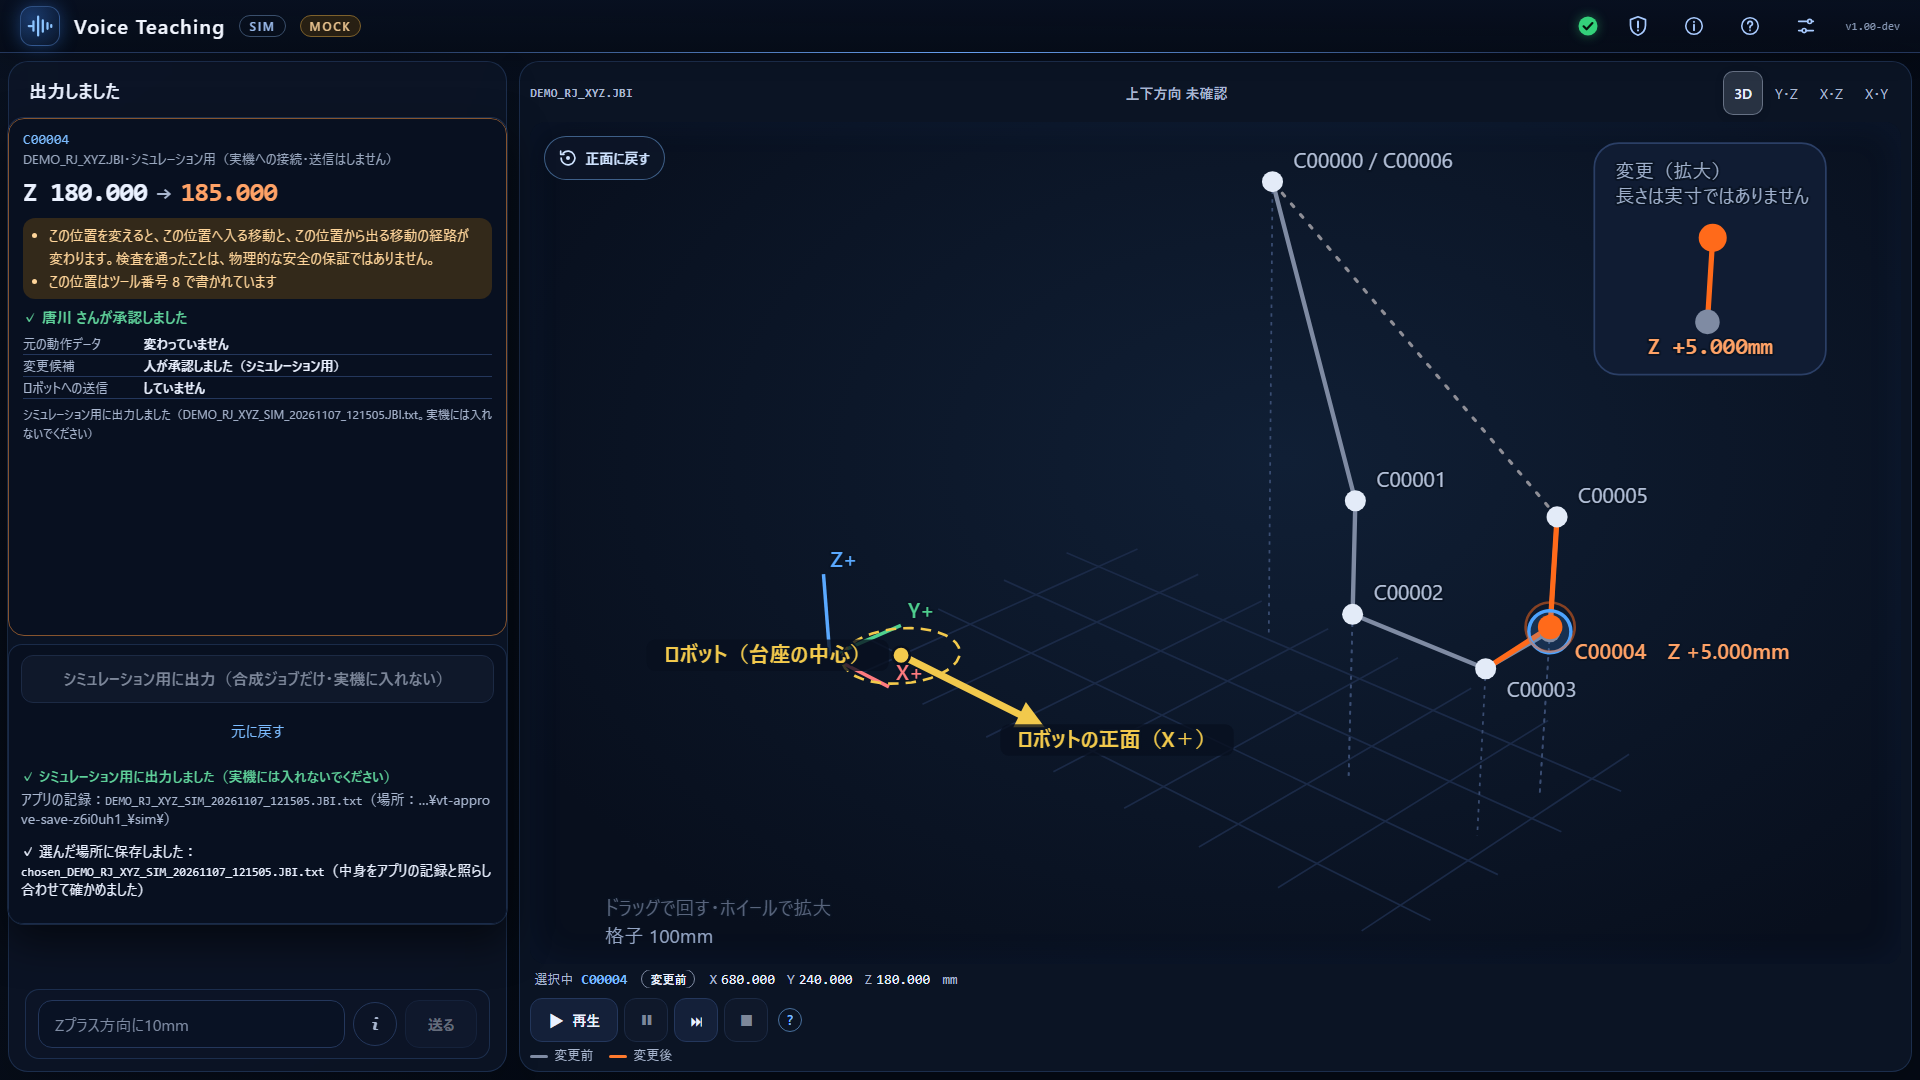
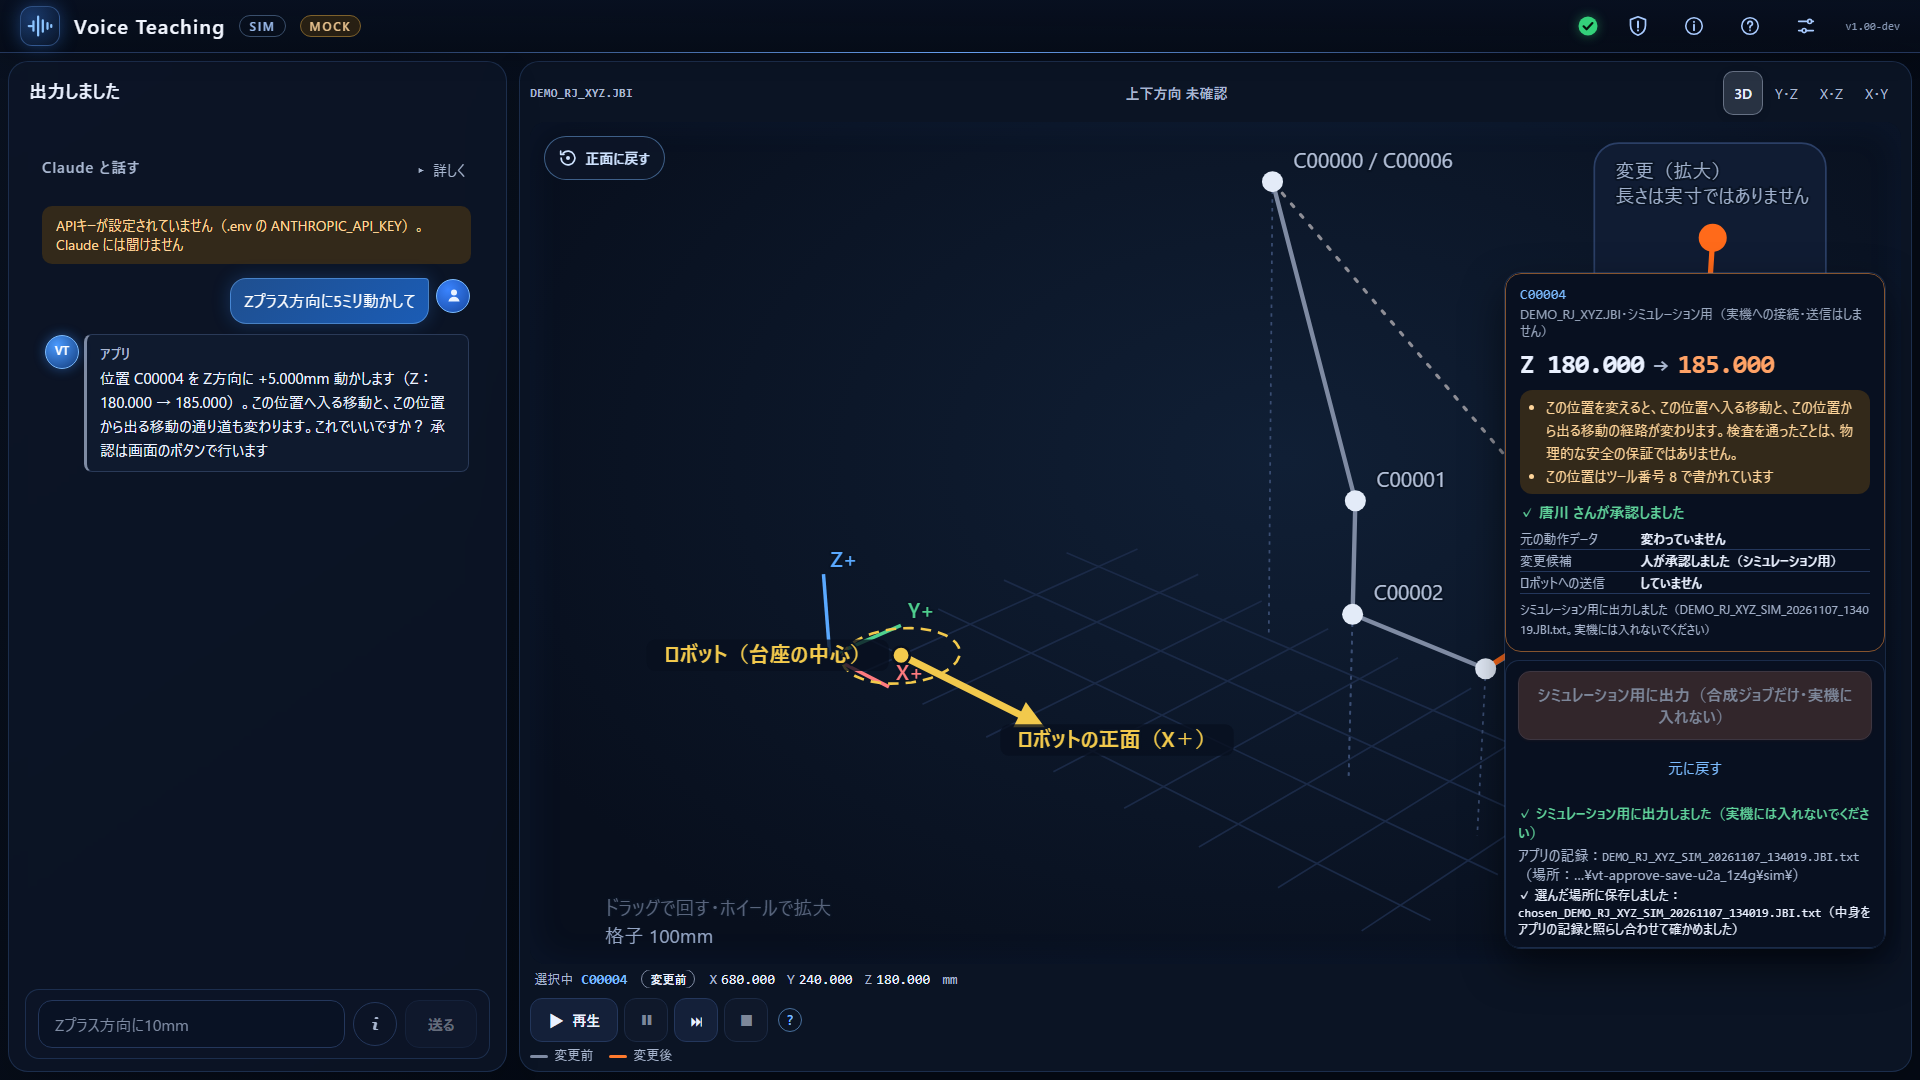
確かめの道具：承認1回と範囲の案内に合わせる（check_approve_save の SIM 専用の文は候補の窓の JOB の行でも可・shots_rc は承認1回と範囲の案内）

diff --git a/tools/nl_eval/shots_rc.py b/tools/nl_eval/shots_rc.py
@@ -76,12 +76,10 @@ def main() -> int:
         pg.locator("#reply-message .choices button", has_text="合っている").first.click()
         pg.wait_for_function("() => document.querySelector('#open-confirm') && !document.querySelector('#open-confirm').disabled",
                              timeout=90000)
-        shot("06_candidate", "変更候補（3D・差分）")
-        pg.click("#open-confirm")
-        pg.wait_for_selector("#confirm-overlay:not([hidden])")
-        shot("07_confirm", "確認表示（変更前→変更後・承認する人）")
-        pg.fill("#approver-name", "唐川")
-        pg.click("#approve-button")
+        shot("06_candidate", "変更候補（3D・差分・承認の欄）")
+        pg.fill("#quick-approver", "唐川")
+        shot("07_confirm", "名前を入れて［この変更を承認する］を1回（承認は1回）")
+        pg.click("#quick-approve-button")
         pg.wait_for_timeout(1500)
         shot("08_approved", "画面のボタンで承認")
         pg.wait_for_function("() => !document.querySelector('#export-button').disabled", timeout=30000)
@@ -100,17 +98,17 @@ def main() -> int:
         pg.wait_for_selector("#job-area:not([hidden])")
         pg.wait_for_timeout(1200)
         shot("11_repeat_loaded", "回数の JOB を読み込んだ")
-        say("ボタンを押す動作を2回から3回にして")
+        say("C1C4を2回繰り返したい")
+        shot("11b_repeat_guide", "範囲の案内（このJOBで変えられる範囲・ご指定と違う・ボタンで選ぶ）")
+        pg.locator("#reply-message .choices button", has_text="3回にする").first.click()
         pg.wait_for_selector("#range-yes", timeout=90000)
         shot("12_repeat_range", "範囲をボタンで確かめる（声では決めない）")
         pg.click("#range-yes")
         pg.wait_for_function("() => document.querySelector('#open-confirm') && !document.querySelector('#open-confirm').disabled",
                              timeout=60000)
         shot("13_repeat_candidate", "回数の変更候補（2回 → 3回）")
-        pg.click("#open-confirm")
-        pg.wait_for_selector("#confirm-overlay:not([hidden])")
-        pg.fill("#approver-name", "唐川")
-        pg.click("#approve-button")
+        pg.fill("#quick-approver", "唐川")
+        pg.click("#quick-approve-button")
         pg.wait_for_function("() => !document.querySelector('#export-button').disabled", timeout=30000)
         pg.click("#export-button")
         pg.wait_for_selector("#export-result:not([hidden])", timeout=30000)

diff --git a/tools/check_approve_save.py b/tools/check_approve_save.py
@@ -97,7 +97,7 @@ def main() -> int:
                 vis = pg.evaluate("""() => { const r = document.querySelector('#quick-approve-button').getBoundingClientRect();
                     return r.top >= 0 && r.bottom <= innerHeight && r.width > 0; }""")
                 check("C00004" in pop and "DEMO_RJ_XYZ.JBI" in pop and "シミュレーション用" in pop and "180.000" in pop
-                      and "185.000" in pop and "実機への接続・送信はしません" in note and vis
+                      and "185.000" in pop and "実機への接続・送信はしません" in (pop + note) and vis
                       and "primary" in (pg.get_attribute("#quick-approve-button", "class") or ""),
                       f"承認の前（{w}×{h}）：対象・JOB・SIM 専用・変更前→変更後が見え、［この変更を承認する］が画面の中で目立つ")
                 if shots:
